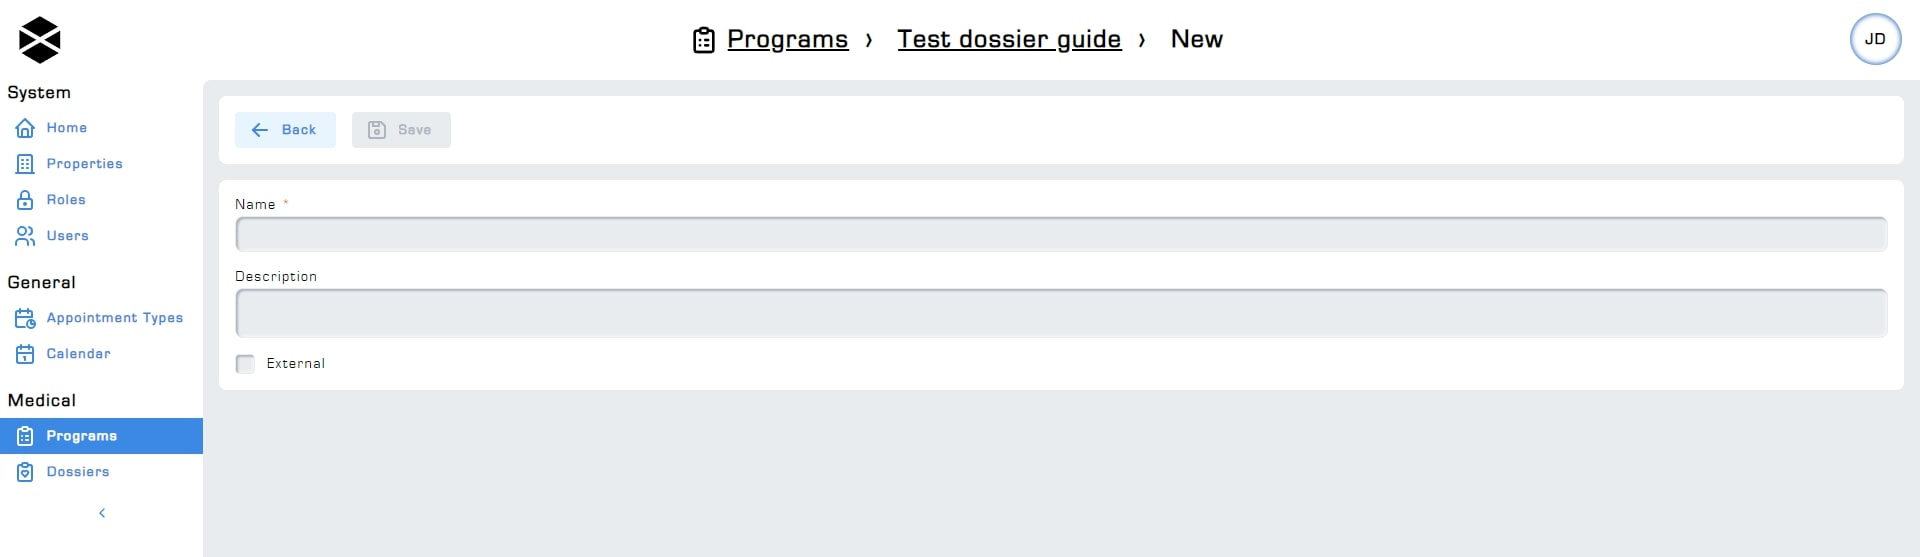
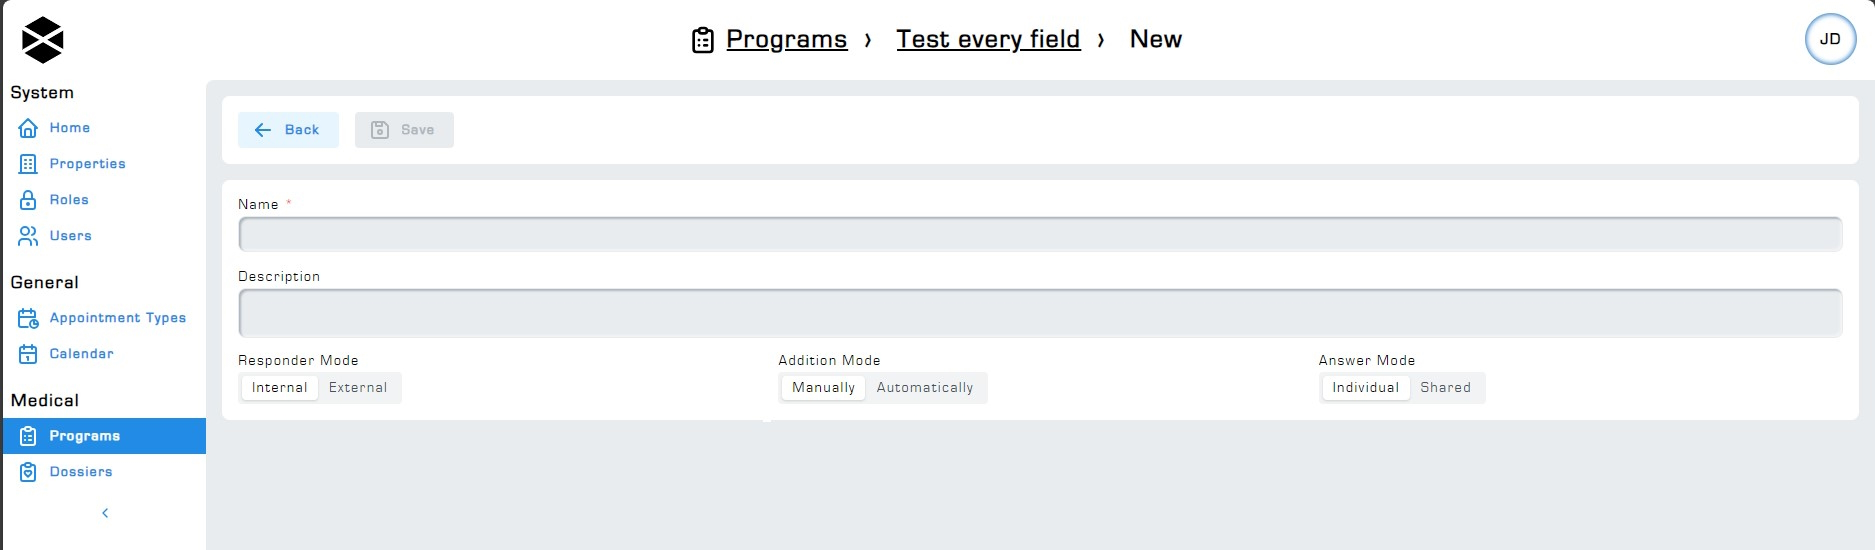
feat: step modes fix: sentences, general wrong info

diff --git a/src/routes/guide/healthcare/programs/index.md b/src/routes/guide/healthcare/programs/index.md
@@ -4,56 +4,78 @@ The Programs functionality is part of the Medical module. The Medical module is 
 
 ## 1. Program definition
 
-A program is a fully customizable step based solution to create simple yet powerful questionnaires for your clients to partake in. A program can, but does not have to, consist of multiple steps, each step consisting of one, or multiple sections and questions. Programs can be seen as templates which allow your team to save a lot of time by not having to create a unique seperate questionnaire for each client.
+A program is a fully customizable step based solution to create simple yet powerful questionnaires for your clients to partake in. A program can, but does not have to, consist of steps, each step consisting of one, or multiple sections and questions. Programs can be seen as templates which allows your team to reuse past questionnaires without having to create a new questionnaire for every new client, saving a lot of time.
 
 ## 2. Program overview
 
-The program overview screen can be found by clicking on Programs listed under the medical header section. Navigating to the program overview page will generate a list of all programs. You can only access the program overview if you have sufficient permissions to do so. The required permissions to view, edit or create dossiers are listed in the permissions overview section on the right side of this documentation page. For more information regarding roles and permissions please refer to the [Roles and Permissions](/system/roles "Roles and permissions") page.
-![Programs overview](/images/medical/programs/ProgramsOverview.PNG "Programs overview")
+The program overview screen can be found by clicking on Programs, listed under the medical header section. Navigating to the program overview page will generate a list of all programs. You can only access the program overview if you have sufficient permissions to do so. The required permissions to view, edit or create dossiers are listed in the permissions overview section on the right side of this documentation page. For more information regarding roles and permissions please refer to the [Roles and Permissions](/system/roles "Roles and permissions") page.
+
+![Programs overview](/images/guide/programs.jpg "Programs overview")
 
 ## 3. Creating a program
 
-To create a program, first, navigate to the program overview screen, then click on the `+ New` button to start creating a program. You must first name your program before it can be created. A description is not required for a program to be created. After typing out a suitable name for your program, click on the `+ Create` button to create the program.
+To create a program, first, navigate to the program overview screen, then click on the `+ New` button to start creating a program. Entering a name for a program is required, a description is not. After typing out a suitable name for your program, click on the `+ Create` button to finalize the creation process.
 
-## 4. Program modes
+## 4. Step modes
 
-There are 3 different
+TODO: Finish this
+
+When creating or editing a step you will find 3 slide-toggles; `Responder Mode`, `Addition Mode`, and `Answer Mode`. An explanation for each of these toggles can be found below.
+
+**Responder mode:** this detemines whether a step is meant to be filled in by an internal user or external client. Setting this slider to external means the dossier's associated client(s) will have to fill in this step via the client portal. The internal slider setting means the step has to be completed by a user via Hexa Center's dossier system.
+
+Please refer to the [Dossiers](../dossiers/index.md "Dossiers") page for more information about the client portal and dossiers.
+
+**Addition Mode:**
 
 ## 5. Adding steps to programs
 
-Adding steps to a program is made as simple and easy to understand as possible. Click on the `+ New` button to create a step. Alternatively, link an already existing step by clicking on the `Link Existing` field and selecting a step from there. Upon selecting a step from the list of available steps that step will immediately be added to the program. Linked steps have an icon next to the name indicating that the step is linked to a step originating from a different program. Changes made to a linked step are synchronised to every program where that step it linked to. So upon making changes to the original step or the linked copy of the step those changes will appear in both versions of the step. Keep this in mind when editing linked steps. When the `external checkbox` toggle is toggled on, the step is open to external clients.
-See screenshots below to see what the `External` and `Linked` step icons look like.
-![Linked step](/images/medical/programs/ProgramsLinkedStep.PNG "Linked step")
-![External step](/images/medical/programs/ProgramsExternalStep.PNG "External step")
+Adding steps to a program is made as simple and easy to understand as possible. Click on the `+ New` button to create a step. Alternatively, link an already existing step by clicking on the `Link Existing` field and selecting a step from there. Upon selecting a step from the list of available steps, that step will immediately be added to the program. Linked steps have an icon next to the name indicating that the step is linked to a step originating from a different program.
+
+Changes made to a linked step are synchronized across every program where that step is linked. So, any modifications made to the original step or the linked copy will appear in both versions of the step. Please keep this in mind when editing linked steps.
+
+The external checkbox toggle determines whether a step is open to external clients. Below are screenshots that illustrate the appearance of the 'External' and 'Linked Step' icons.
+
+![Linked step](/images/guide/programs-linked.jpg "Linked step")
+![External step](/images/guide/programs-external.jpg "External step")
 
 ## 5.1 Creating steps
 
-Selecting a program from the list of available programs and clicking on the `+ New` button found under the `steps` section will bring up the step creation screen. A name must be entered for a step to be created, typing out a description, however, is not required. Toggle the `external checkbox` checkbox if this step is meant to be sent to clients via email.
-![Creating step](/images/medical/programs/ProgramsCreatingStep.png "Creating step")
+Selecting a program from the list of available programs and clicking on the `+ New` button found under the `steps` section will bring up the step creation screen. A name must be entered for a step to be created. Entering a description is not required. Toggle the `external checkbox` checkbox if this step is meant to be sent to clients via email.
+
+![Creating step](/images/guide/programs-create.jpg "Creating step")
 
 ## 5.2 Adding sections to steps
 
-Adding sections to your steps is highly recommended because it generally improves the overall readability of a step. Sections can be easily collapsed allowing you to focus on another section, while avoiding making mistakes in sections you're not currently editing.
-To add sections to your steps first select a dossier you would like to edit the steps off, then select an existing step from the list of steps. Alternatively, create a new step via the `+ New` button. After selecting a step to edit, click on the `+ Add section` button to add a section to the step. The `+ Add section` button is always located at the bottom of all added items, so you might have to scroll down to get this button into view.
-Added sections are automatically numbered, meaning section 1 will have the number 1 next to it, section 2 number 2, etc. Sections act like an accordion menu, however unlike other accordion menus which are collapsed by default, ours are not. To open or close a section simply click anywhere next to the number, like the title.
-To name your sections, click on a section to expand it. On the right side of your screen you will be able to enter a lable and a description. Sections do not need to be named for them to function properly, an unnamed section will simply not have a title and only the number of the section will be visible. Any text entered into the description text field will appear under where the lable text normally is displayed.
+Adding sections to your steps is highly recommended because it improves the overall clarity and readability of steps.
+
+To add sections to your steps, start by selecting a dossier you would like to edit the steps off, then select an existing step from the list of steps. Alternatively, create a new step via the `+ New` button. Click on the `+ Add section` button to add a section to the step. The `+ Add section` button is always located at the bottom of all added items, so you might have to scroll down to get this button into view.
+
+Added sections are automatically numbered, meaning section 1 will have the number 1 next to it, section 2 number 2, etc. To open or close a section simply click anywhere next to the number, like the title.
+
+To name your sections, click on a section to expand it, then proceed to fill in the form which appears on the right side of your screen. The section number will be displayed at the top of the form. Sections do not need to be named for them to function properly, an unnamed section will simply not have a title and only the number of the section will be visible. Text entered into the description field will appear under the label when the section is expanded.
 
 ## 5.3 Adding items to steps
 
-To add an item to a step first expand the section by clicking on it. If your step does not include any sections you can simply drag the items to the dotted rectangle section by holding left mouse button, dragging the item to the dotted rectangle section and letting go of the left mouse button. If you do decide you want to create sections, but items have already been added to the step, all items will be added to the newly created section.
-To add items to a specific section, make sure the section is expanded first. Then, just like when you're adding items to a step without sections, drag the item to the dotted rectangle section by holding the left mouse button to grab an item from the list, drag the item over to the dotted rectangle section and let go off the left mouse button. The dotted rectangle section will light up when an item is ready to be added.
+To add an item to a step first expand the section by clicking on it. If your step does not include any sections you can simply add the item by holding the left mouse button, dragging the item to the dotted rectangle section and letting go of the left mouse button. If you do decide you want to create sections, but items have already been added to the step, all items will be added to the newly created section.
+
+To add items to a specific section, make sure the section is expanded first. Then, just like when you're adding items to a step without sections, hold the left mouse button to grab an item from the list and drag it to the dotted rectangle section, then let go off the left mouse button. The dotted rectangle section will light up when an item is ready to be added.
+
+![Adding step to section](/images/guide/programs-add-formitem-to-section.jpg "Adding step to section")
 
 ## 5.4 Rearranging items in steps
 
-It is currently not possible to drag form items from sections to other sections. Rearranging form items within a section however is possible, simply hold the left mouse button while hovering your cursor over the `arrows` icon next to the item you want to move, drag the form item either up or down and let go off the left mouse button to move the form item.
+Dragging form items from one section to another is currently not possible. Rearranging form items within a section however is possible, simply hold the left mouse button while hovering your cursor over the `arrows` icon next to the item you want to move, drag the form item to your desired location, and let go off the left mouse button to move the form item.
+
+![Dragging formitems in section](/images/guide/programs-drag-formitem-in-section.jpg "Dragging formitems in section")
 
 ## 6. Preview mode
 
-The programs functionality features a Preview mode to show you what a step looks like before sending it to a client. To access this functionality simply select a program, then, select a step from the list of available steps and click on the `Preview` button. The preview mode even allows you to test the different form items by allowing you to interact with them just like the client filling in the program normally would.
+The programs functionality features a Preview mode to show you what a step looks like before sending it to a client. To access this functionality simply select a program, proceed to select a step from the list of available steps and click on the `Preview` button. The preview mode even enables you to test the different form items by allowing you to interact with them just like the client filling in the program would.
 
 ## 7. Available items and descriptions
 
-Currently we offer a multitude of different form items that can be added to a step. A list of available form items, and their descriptions can be found below.
+We offer a multitude of different form items that can be added to a step. A list of available form items, and their descriptions can be found below.
 
 **Text:** static text, can be used to relay information to the client like instructions on how to fill in the questionnaire, or it can simply act as an intro text used as clarification.
 
@@ -79,8 +101,9 @@ Currently we offer a multitude of different form items that can be added to a st
 
 ## 7.1 Customizing form items & optional questions
 
-Every form item can be customized by adding a title, description, or by making the form item optional. Adding restrictions to form items like setting a max length or value in number inputs is not yet implemented.
-Optional questions can be skipped by the client and therefore do not required for the questionnaire to be completed. This checkbox can be found by clicking on cogwheel button next to any form item (except for the Text form item, because no selectable options can be added for this item). Check the `Optional` checkbox to make the question optional, answering that question will no longer be required for the survey to be completed.
+Every form item can be customized by adding a title, description, or by making the form item optional. Adding restrictions to form items like setting a max length or value in number inputs has not yet been implemented.
+
+Optional questions can be skipped by the client and therefore do not required for the questionnaire to be completed. This feature can be found by clicking on the cogwheel button next to any form item (except for the Text form item, because no selectable options can be added to this item). Check the `Optional` checkbox to make the question optional, answering that question will no longer be required for the survey to be completed.
 
 ## 8. Deleting programs
 
